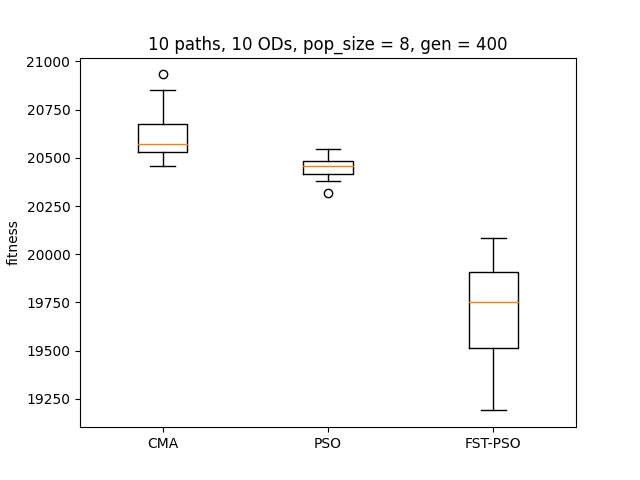
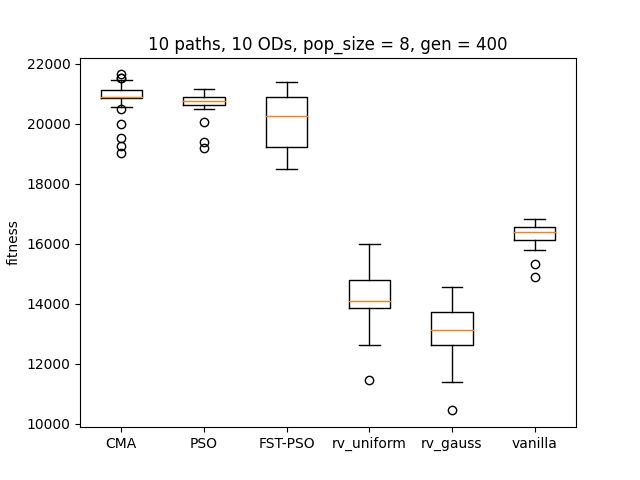
Results

diff --git a/Results/Graphs/Graphs.py b/Results/Graphs/Graphs.py
@@ -38,66 +38,66 @@ torch = pd.read_csv(r'../20x20/torch')
 # 'CMA', 'PSO', 'FST-PSO', 'rv_uniform', 'rv_gauss', 'vanilla'
 
 # BEST/WORST CASE FOR EACH ALG
-# for _ in [CMA, PSO, FST, uni, gauss, torch]:
-#     print(min(_.fitness))
-#     a = _.loc[_.fitness == min(_.fitness)].index
-#     if _ is PSO:
-#         x = to_matrix(_.upper_time[a[0]])
-#         y = to_matrix(_.fit_update[a[0]])
-#     else:
-#         x = to_matrix(_.upper_time[a[0]])[1:]
-#         y = to_matrix(_.fit_update[a[0]])
-#     plt.plot(x, y, label=str(0))
-# plt.title("20 paths, 20 ODs, pop_size = 8, gen = 400")
-# plt.xlabel("time")
-# plt.ylabel("fitness")
-# plt.legend(['CMA', 'PSO', 'FST-PSO', 'rv_uniform', 'rv_gauss', 'vanilla'])
-# plt.show()
+for _ in [CMA, PSO, FST, uni, gauss, torch]:
+    print(min(_.fitness))
+    a = _.loc[_.fitness == min(_.fitness)].index
+    if _ is PSO:
+        x = to_matrix(_.upper_time[a[0]])
+        y = to_matrix(_.fit_update[a[0]])
+    else:
+        x = to_matrix(_.upper_time[a[0]])[1:]
+        y = to_matrix(_.fit_update[a[0]])
+    plt.plot(x, y, label=str(0))
+plt.title("20 paths, 20 ODs, pop_size = 8, gen = 400")
+plt.xlabel("time")
+plt.ylabel("fitness")
+plt.legend(['CMA', 'PSO', 'FST-PSO', 'rv_uniform', 'rv_gauss', 'vanilla'])
+plt.show()
 
 # ALL CASES FOR ALG _
-# _ = uni
-# for i in range(len(_.fitness)):
-#     # if _.fitness[i] != 0:
-#     x = to_matrix(_.upper_time[i])[1:]
-#     y = to_matrix(_.fit_update[i])
-#     plt.plot(x, y, label=str(0))
-# plt.title("rv_uniform\n20 paths, 20 ODs, pop_size = 8, gen = 400")
-# plt.xlabel("time")
-# plt.ylabel("fitness")
-# plt.show()
+_ = CMA
+for i in range(len(_.fitness)):
+    # if _.fitness[i] != 0:
+    x = to_matrix(_.upper_time[i])[1:]
+    y = to_matrix(_.fit_update[i])
+    plt.plot(x, y, label=str(0))
+plt.title("CMA\n20 paths, 20 ODs, pop_size = 8, gen = 400")
+plt.xlabel("time")
+plt.ylabel("fitness")
+plt.show()
 
 # MEANS FOR EACH ALG
-# CMA.drop([10, 16], axis=0, inplace=True)
-# CMA.index = range(len(CMA.fitness))
-# for _ in [CMA, PSO, FST, uni, gauss, torch]:
-#     a = len(to_matrix(_.fit_update[0]))
-#     b = len(_.fitness)
-#     time = []
-#     fit = []
-#     for j in range(a):
-#         x = []
-#         y = []
-#         for i in range(b):
-#             if _ is PSO:
-#                 x.append(to_matrix(_.upper_time[i])[j])
-#             else:
-#                 x.append(to_matrix(_.upper_time[i])[j + 1])
-#             y.append(to_matrix(_.fit_update[i])[j])
-#         time.append(np.mean(x))
-#         fit.append(np.mean(y))
-#     plt.plot(time, fit, label=str(0))
-# plt.title("Mean\n20 paths, 20 ODs, pop_size = 8, gen = 400")
-# plt.xlabel("time")
-# plt.ylabel("fitness")
-# plt.legend(['CMA', 'PSO', 'FST-PSO', 'rv_uniform', 'rv_gauss', 'vanilla'])
-# plt.show()
+CMA.drop([10, 16], axis=0, inplace=True)
+CMA.index = range(len(CMA.fitness))
+for _ in [CMA, PSO, FST, uni, gauss, torch]:
+    a = len(to_matrix(_.fit_update[0]))
+    b = len(_.fitness)
+    time = []
+    fit = []
+    for j in range(a):
+        x = []
+        y = []
+        for i in range(b):
+            if _ is PSO:
+                x.append(to_matrix(_.upper_time[i])[j])
+            else:
+                x.append(to_matrix(_.upper_time[i])[j + 1])
+            y.append(to_matrix(_.fit_update[i])[j])
+        time.append(np.mean(x))
+        fit.append(np.mean(y))
+    plt.plot(time, fit, label=str(0))
+plt.title("Mean\n20 paths, 20 ODs, pop_size = 8, gen = 400")
+plt.xlabel("time")
+plt.ylabel("fitness")
+plt.legend(['CMA', 'PSO', 'FST-PSO', 'rv_uniform', 'rv_gauss', 'vanilla'])
+plt.show()
 
 # BOX PLOT
-# plt.boxplot([CMA.fitness, PSO.fitness, FST.fitness, uni.fitness, gauss.fitness, torch.fitness])
-# plt.xticks([1, 2, 3, 4, 5, 6], ['CMA', 'PSO', 'FST-PSO', 'rv_uniform', 'rv_gauss', 'vanilla'])
-# plt.ylabel('fitness')
-# plt.title("20 paths, 20 ODs, pop_size = 8, gen = 400")
-# plt.show()
+plt.boxplot([CMA.fitness, PSO.fitness, FST.fitness, uni.fitness, gauss.fitness, torch.fitness])
+plt.xticks([1, 2, 3, 4, 5, 6], ['CMA', 'PSO', 'FST-PSO', 'rv_uniform', 'rv_gauss', 'vanilla'])
+plt.ylabel('fitness')
+plt.title("20 paths, 20 ODs, pop_size = 8, gen = 400")
+plt.show()
 
 plt.boxplot([CMA.fitness, PSO.fitness, FST.fitness])
 plt.xticks([1, 2, 3], ['CMA', 'PSO', 'FST-PSO'])
@@ -112,23 +112,23 @@ plt.title("20 paths, 20 ODs, pop_size = 8, gen = 400")
 plt.show()
 
 # BEST ALG COMPARISON
-# for _ in [CMA, PSO, FST]:
-#     a = _.loc[_.fitness == max(_.fitness)].index
-#     if _ is CMA:
-#         x = to_matrix(_.upper_time[a[0]])[-350:]
-#         y = to_matrix(_.fit_update[a[0]])[-350:]
-#     elif _ is PSO:
-#         x = to_matrix(_.upper_time[a[0]])[-320:]
-#         y = to_matrix(_.fit_update[a[0]])[-320:]
-#     elif _ is FST:
-#         x = to_matrix(_.upper_time[a[0]])[-373:]
-#         y = to_matrix(_.fit_update[a[0]])[-373:]
-#     plt.plot(x, y, label=str(0))
-# plt.title("20 paths, 20 ODs, pop_size = 8, gen = 400")
-# plt.xlabel("time")
-# plt.ylabel("fitness")
-# plt.legend(['CMA', 'PSO', 'FST-PSO'])
-# plt.show()
+for _ in [CMA, PSO, FST]:
+    a = _.loc[_.fitness == max(_.fitness)].index
+    if _ is CMA:
+        x = to_matrix(_.upper_time[a[0]])[-350:]
+        y = to_matrix(_.fit_update[a[0]])[-350:]
+    elif _ is PSO:
+        x = to_matrix(_.upper_time[a[0]])[-320:]
+        y = to_matrix(_.fit_update[a[0]])[-320:]
+    elif _ is FST:
+        x = to_matrix(_.upper_time[a[0]])[-373:]
+        y = to_matrix(_.fit_update[a[0]])[-373:]
+    plt.plot(x, y, label=str(0))
+plt.title("20 paths, 20 ODs, pop_size = 8, gen = 400")
+plt.xlabel("time")
+plt.ylabel("fitness")
+plt.legend(['CMA', 'PSO', 'FST-PSO'])
+plt.show()
 
 # DIFFERENT INITIAL DATA COMPARISON
 # for _ in [CMA32, CMA56, CMA80]:
